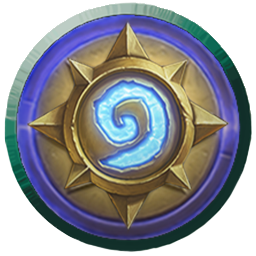
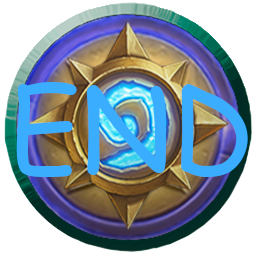
partially removed attack steal. End game button enhancements

diff --git a/js/game/card-abilities.js b/js/game/card-abilities.js
@@ -55,45 +55,9 @@
             cardCreator.performStealManaFromCardAnimation(avatar, enemyAvatar, manaToSteal);
         }
 
-        function stealAttackFromEnemyCard(attacker, target, cards) {
-            let attackToSteal = Math.round(target.attack / 2);
-
-            if (attackToSteal > 0) {
-                let receiver,
-                    stealer;
-
-                if (attacker.isPlayerCard) {
-                    let playerCardsWhichAttack = cards.filter(c => c.ability === 'normal');
-                    receiver = playerCardsWhichAttack[Math.floor(Math.random() * playerCardsWhichAttack.length)];
-                    stealer = 'player';
-                } else {
-                    let enemyCardsWhichAttack = cards.filter(c => c.ability === 'normal');
-                    receiver = enemyCardsWhichAttack[Math.floor(Math.random() * enemyCardsWhichAttack.length)];
-                    stealer = 'enemy';
-                }
-
-                receiver.attack += attackToSteal;
-                target.attack -= attackToSteal;
-
-                receiver.damageStat.text = receiver.attack;
-                target.damageStat.text = target.attack;
-
-                if (stealer === 'player') {
-                    let previouslyStolen = Number(localStorage.getItem('playerStolenAttack'));
-                    localStorage.setItem('playerStolenAttack', previouslyStolen + attackToSteal);
-                } else {
-                    let previouslyStolen = Number(localStorage.getItem('enemyStolenAttack'));
-                    localStorage.setItem('enemyStolenAttack', previouslyStolen + attackToSteal);
-                }
-            }
-
-            cardCreator.performStealAttackFormCardAnimation(attacker, target, attackToSteal);
-        }
-
         return {
             stealFromEnemyHealth: stealFromEnemyHealth,
             stealManaFromEnemyPlayer: stealManaFromEnemyPlayer,
-            stealAttackFromEnemyCard: stealAttackFromEnemyCard
         };
     });
 }());

diff --git a/js/game/card-creator.js b/js/game/card-creator.js
@@ -326,26 +326,6 @@
                     textTopOffset)
             }
 
-            function performStealAttackFormCardAnimation(attackerCard, targetCard, attackToSteal) {
-                let stealImage = 'images/effects/attackSteal.png',
-                    leftOffset = 0.25,
-                    textSize = 10,
-                    spriteScale = 0.15,
-                    textLeftOffset = 17,
-                    textTopOffset = 9;
-
-                performStealAnim(
-                    attackerCard,
-                    targetCard,
-                    attackToSteal,
-                    stealImage,
-                    leftOffset,
-                    textSize,
-                    spriteScale,
-                    textLeftOffset,
-                    textTopOffset)
-            }
-
             function performStealAnim(attacker,
                                       target,
                                       valueToSteal,
@@ -432,7 +412,6 @@
                 performAttackAnimation: performAttackAnimation,
                 performStealHealthFromPlayerAnimation: performStealHealthFromPlayerAnimation,
                 performStealManaFromCardAnimation: performStealManaFromCardAnimation,
-                performStealAttackFormCardAnimation: performStealAttackFormCardAnimation,
                 hoverPlayerCard: hoverPlayerCard
             };
         });
